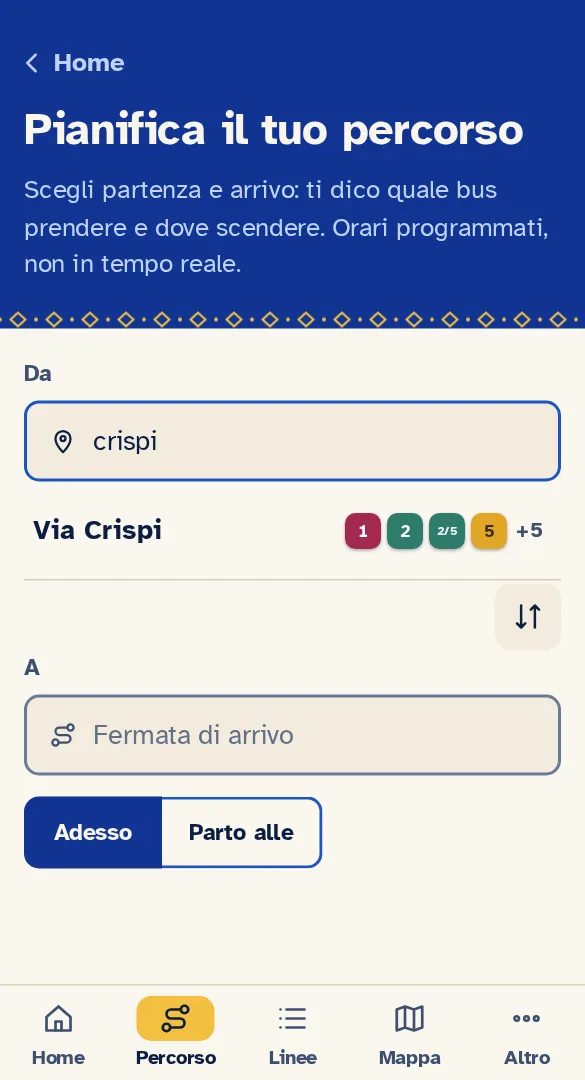
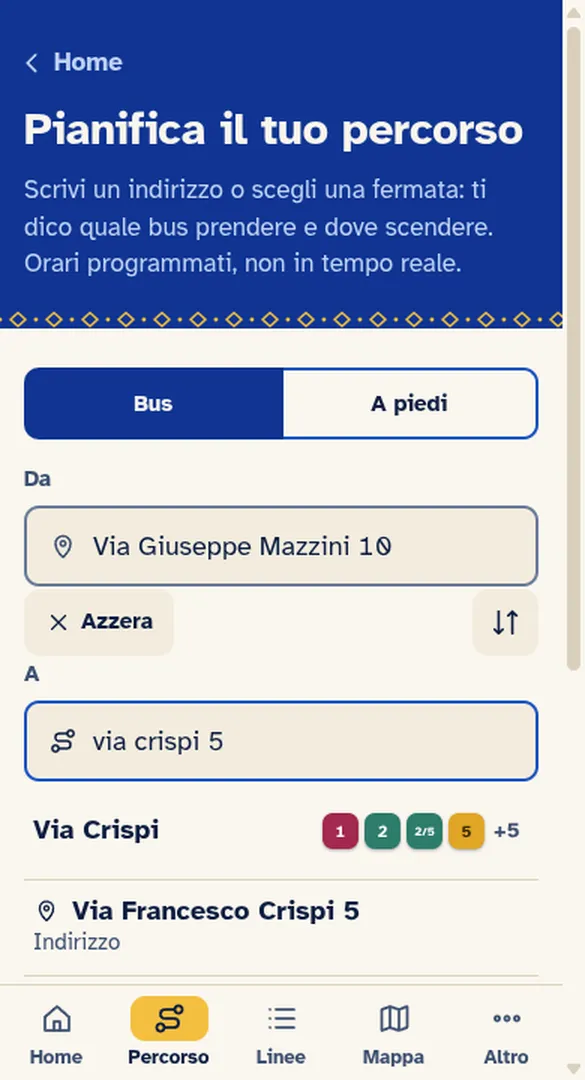
upgrade

diff --git a/js/i18n.js b/js/i18n.js
@@ -79,7 +79,7 @@ const IT = {
   howSpecial: 'DOM è la linea domenicale, N una navetta senza numero. Due numeri separati da barra (7/10) sono una sola linea che li porta entrambi.',
   legend: 'Legenda', legendLine: 'Percorso di una linea (numero = linea)', legendBusLine: 'Bus in servizio: colore = linea stimata, numero = mezzo',legendBusUnk: 'Bus in servizio, linea non determinabile', legendBusOff: 'Bus fermo, non in servizio',
   legendStop: 'Fermata (si vede ingrandendo)', legendMe: 'La tua posizione',
-  planTitle: 'Pianifica il tuo percorso', planFrom: 'Da', planTo: 'A', planFromPh: 'Indirizzo o fermata di partenza', planToPh: 'Indirizzo o fermata di arrivo', planStreet: 'Via: scrivi il numero civico', stepWalkM: (m, min) => `Cammina ${m} m · ${min} min`, stepUntil: 'fino a', planOnMap: 'Vedi sulla mappa', planWalkOnly: 'A piedi', planReset: 'Azzera', planModeLabel: 'Come ti muovi', planModeBus: 'Bus', planModeWalk: 'A piedi', planWalkNone: 'Percorso a piedi non disponibile: i due punti sono troppo lontani o fuori dalla rete pedonale.', planWalkMeta: (m) => `${m} m a piedi`, planCloseRoute: 'Chiudi il percorso sulla mappa', planAddress: 'Indirizzo', citeAddresses: 'Numeri civici: ANNCSU, Archivio Nazionale dei Numeri Civici delle Strade Urbane (Agenzia delle Entrate · ISTAT), elaborazione',
+  planTitle: 'Pianifica il tuo percorso', planFrom: 'Da', planTo: 'A', planFromPh: 'Indirizzo o fermata di partenza', planToPh: 'Indirizzo o fermata di arrivo', planStreet: 'Via: scrivi il numero civico', stepWalkM: (m, min) => `Cammina ${m} m · ${min} min`, stepUntil: 'fino a', planOnMap: 'Vedi sulla mappa', planWalkOnly: 'A piedi', planReset: 'Azzera', planModeLabel: 'Come ti muovi', planModeBus: 'Bus', planModeWalk: 'A piedi', planWalkNone: 'Percorso a piedi non disponibile: i due punti sono troppo lontani o fuori dalla rete pedonale.', planWalkMeta: (m) => `${m} m a piedi`, planCloseRoute: 'Chiudi il percorso sulla mappa', planAddress: 'Indirizzo', citeAddresses: 'Numeri civici: ANNCSU, Archivio Nazionale dei Numeri Civici delle Strade Urbane (Agenzia delle Entrate · ISTAT), dati aperti ai sensi del Regolamento (UE) 2023/138, elaborazione',
   planMyPos: 'La mia posizione', planSwap: 'Inverti partenza e arrivo', planNow: 'Adesso', planAt: 'Parto alle', planGo: 'Cerca percorso',
   planHint: 'Scrivi un indirizzo o scegli una fermata: ti dico quale bus prendere e dove scendere. Orari programmati, non in tempo reale.',
   planNone: 'Nessun collegamento trovato con al massimo un cambio.', planNoneNow: 'Nessun collegamento nel resto della giornata. Ecco quelli di domani.',
@@ -122,21 +122,35 @@ const IT = {
       'Tocca una linea per vedere tutte le sue fermate con gli orari. La pagina si apre già sulla tua fermata, così capisci subito quando passa.',
       'Per i bus che vanno nell’altra direzione, torna indietro e tocca «Altro senso di marcia».',
     ], 'Se devi solo arrivare in un posto, è più facile usare «Percorso»: l’app sceglie lei la linea giusta.', [['linee-fermata', 'L’elenco «Linee che passano di qui» nella pagina di una fermata']]],
-    ['plan', 'route', 'Come fare un percorso', 'Il pulsante «Percorso» ti dice quale bus prendere, dove salire, dove scendere e se devi cambiare.', [
+    ['plan', 'route', 'Come fare un percorso', 'Il pulsante «Percorso» ti dice come andare da un posto a un altro: con il bus (quale prendere, dove salire e scendere, se devi cambiare) oppure a piedi.', [
       'Tocca «Percorso» nella barra in basso.',
-      'Nella casella «Da» scrivi dove parti (nome della fermata o della strada) e tocca il risultato giusto. Se sei già sul posto, scegli «La mia posizione».',
-      'Nella casella «A» scrivi la fermata dove vuoi arrivare e tocca il risultato.',
-      'Appena hai scelto tutte e due, l’app mostra le soluzioni. Non c’è un pulsante da premere.',
+      'In alto scegli come ti muovi: «Bus» (bus più pezzi a piedi) oppure «A piedi» (solo a piedi, dal punto di partenza all’arrivo).',
+      'Nella casella «Da» scrivi dove parti: puoi usare il nome di una fermata, una via con il numero civico (per esempio «via Mazzini 10») oppure «La mia posizione» se sei già sul posto. Tocca il risultato giusto.',
+      'Se scrivi solo il nome di una via, toccala nell’elenco e aggiungi il numero civico: l’app trova l’indirizzo preciso.',
+      'Nella casella «A» fai lo stesso per la destinazione: fermata, indirizzo con civico o posizione.',
+      'Appena hai scelto tutte e due, l’app mostra le soluzioni. Non c’è un pulsante da premere. Cambiando «Bus» o «A piedi» il risultato si aggiorna subito.',
       'Per partire adesso lascia «Adesso». Per partire più tardi tocca «Parto alle» e scegli l’ora.',
       'Hai sbagliato l’ordine? Il pulsante con le due frecce, in mezzo alle caselle, inverte «Da» e «A» (comodo per il ritorno).',
-    ], '', [['percorso-da', 'Il pianificatore con «Via Crispi» scelta come partenza'], ['percorso-risultati', 'Le soluzioni trovate, con orari e linee']]],
+      'Vuoi ricominciare? Tocca «Azzera»: cancella partenza, arrivo, ora e il percorso aperto sulla mappa.',
+    ], 'Funziona anche tra due indirizzi qualsiasi, non solo tra fermate: l’app aggiunge da sola i tratti a piedi fino alla fermata e dalla fermata all’arrivo.', [['percorso-da', 'Il pianificatore con la partenza «Via Giuseppe Mazzini 10» e l’arrivo in corso di scrittura; in alto la scelta «Bus» / «A piedi»'], ['percorso-risultati', 'Soluzione con il bus: tratto a piedi, bus, tratto a piedi, con orari e minuti']]],
     ['read', 'info', 'Come leggere il risultato', 'Ogni riquadro è una possibile soluzione, la prima (con il bordo blu) è la più rapida.', [
       'In alto vedi l’orario di partenza e di arrivo e quanti minuti dura il viaggio.',
-      '«Diretto» vuol dire che non devi cambiare. «1 cambio» vuol dire che userai due bus.',
+      '«Diretto» vuol dire che non devi cambiare. «1 cambio» vuol dire che userai due bus. Con «A piedi» vedi invece i metri totali.',
       'Il primo riquadro è già aperto, gli altri si aprono toccandoli. «Sali a…» dice dove salire e a che ora, «Scendi a…» dove scendere.',
-      'Se c’è un pezzo a piedi, trovi scritto «Cammina» con i minuti.',
+      'Per i tratti a piedi trovi «Cammina» con metri e minuti, i nomi delle strade da percorrere e dove arrivare («fino a…»).',
       'Con un cambio, la scritta «Cambio» ti dice dove scendere dal primo bus e prendere il secondo.',
-    ], 'Sono orari programmati, non in tempo reale. Arriva alla fermata con qualche minuto di anticipo.', []],
+      ], 'Sono orari programmati, non in tempo reale. Arriva alla fermata con qualche minuto di anticipo. I metri a piedi seguono le strade ma sono una stima.', []],
+    ['times', 'clock', 'Quanto ci metto: bus o a piedi', 'L’app ti fa confrontare i due modi, basta cambiare la scelta in alto.', [
+      '<b>Con il bus</b>: in cima a ogni soluzione leggi partenza → arrivo e la durata totale. Dentro trovi i minuti di ogni pezzo a piedi (circa 70 m al minuto) e l’ora del bus.',
+      '<b>A piedi</b>: tocca «A piedi» in alto. Vedi un solo riquadro con la durata e i metri totali (per esempio «10 min · 700 m a piedi») e i nomi delle strade da fare.',
+      'Il tempo a piedi dipende dalla strada vera, non dalla linea retta. Se i due punti sono troppo lontani o fuori dalla rete pedonale, l’app lo scrive.',
+      'Confronta: se a piedi ci metti meno o quasi uguale, non serve aspettare il bus.',
+    ], 'Con «Parto alle» puoi vedere come cambia il tempo se parti più tardi: il bus dipende dall’orario, a piedi no.', [['percorso-piedi', 'Il risultato «A piedi»: 10 minuti, 700 metri, con le strade da percorrere']]],
+    ['planmap', 'map', 'Come vedere il percorso sulla mappa', 'Dopo aver trovato un percorso lo puoi vedere disegnato sulla mappa, sia con il bus sia a piedi.', [
+      'Apri la soluzione che ti interessa e tocca «Vedi sulla mappa».',
+      'Si apre la mappa. Il bus è la linea colorata con il suo colore, i tratti a piedi sono tratteggiati lungo le strade. I pallini segnano partenza, fermate e arrivo.',
+      'In alto, sopra la mappa, c’è la scritta con «Da → A»: tocca la «×» per chiudere il percorso e tornare alla mappa normale.',
+          ], 'Ingrandisci con due dita per vedere meglio le strade del tratto a piedi.', [['percorso-mappa-bus', 'Percorso con il bus sulla mappa: tratti a piedi tratteggiati e linea del bus colorata'], ['percorso-mappa-piedi', 'Percorso solo a piedi sulla mappa']]],
     ['share', 'share', 'Come condividere il percorso', 'Puoi mandare a un amico il percorso già pronto, con partenza, arrivo e ora.', [
       'Fai il percorso come spiegato sopra.',
       'In fondo ai risultati tocca «Condividi percorso».',
@@ -260,7 +274,7 @@ const EN = {
   howSpecial: 'DOM is the Sunday line, N a shuttle without a number. Two numbers with a slash (7/10) are one line carrying both.',
   legend: 'Legend', legendLine: 'A line’s route (number = line)', legendBusLine: 'Bus in service: color = estimated line, number = vehicle',legendBusUnk: 'Bus in service, line unknown', legendBusOff: 'Parked bus, not in service',
   legendStop: 'Stop (visible when zoomed in)', legendMe: 'Your location',
-  planTitle: 'Plan your journey', planFrom: 'From', planTo: 'To', planFromPh: 'Departure address or stop', planToPh: 'Arrival address or stop', planStreet: 'Street: type the house number', stepWalkM: (m, min) => `Walk ${m} m · ${min} min`, stepUntil: 'to', planOnMap: 'Show on map', planWalkOnly: 'On foot', planReset: 'Reset', planModeLabel: 'How you travel', planModeBus: 'Bus', planModeWalk: 'On foot', planWalkNone: 'No walking route: the two points are too far apart or outside the pedestrian network.', planWalkMeta: (m) => `${m} m on foot`, planCloseRoute: 'Close the route on the map', planAddress: 'Address', citeAddresses: 'House numbers: ANNCSU, the national register of street numbers (Agenzia delle Entrate · ISTAT), processed by',
+  planTitle: 'Plan your journey', planFrom: 'From', planTo: 'To', planFromPh: 'Departure address or stop', planToPh: 'Arrival address or stop', planStreet: 'Street: type the house number', stepWalkM: (m, min) => `Walk ${m} m · ${min} min`, stepUntil: 'to', planOnMap: 'Show on map', planWalkOnly: 'On foot', planReset: 'Reset', planModeLabel: 'How you travel', planModeBus: 'Bus', planModeWalk: 'On foot', planWalkNone: 'No walking route: the two points are too far apart or outside the pedestrian network.', planWalkMeta: (m) => `${m} m on foot`, planCloseRoute: 'Close the route on the map', planAddress: 'Address', citeAddresses: 'House numbers: ANNCSU, the national register of street numbers (Agenzia delle Entrate · ISTAT), open data under Regulation (EU) 2023/138, processed by',
   planMyPos: 'My location', planSwap: 'Swap start and destination', planNow: 'Now', planAt: 'Leaving at', planGo: 'Find route',
   planHint: 'Type an address or pick a stop: I’ll tell you which bus to take and where to get off. Scheduled times, not live.',
   planNone: 'No connection found with at most one change.', planNoneNow: 'No connection for the rest of today. Here is tomorrow.',

diff --git a/sw.js b/sw.js
@@ -2,14 +2,14 @@
 // - Codice (html/js/css): prima la rete (con timeout), poi la cache: online si ha sempre una versione coerente.
 // - Dati, font, icone: dalla cache, aggiornati in background.
 // - MapLibre dalla CDN: cache al primo uso. Feed RT e tile della mappa non vengono mai messi in cache da qui.
-const VERSION = 'v83';
+const VERSION = 'v85';
 const CACHE = `marsala-tpl-${VERSION}`;
 const PRECACHE = [
   './', 'index.html', 'manifest.webmanifest', 'css/app.css',
   'js/app.js', 'js/schedule.js', 'js/planner.js', 'js/tiles.js', 'js/i18n.js', 'js/store.js', 'js/rt.js', 'js/map.js', 'js/match.js', 'js/consent.js', 'js/walk.js', 'js/indirizzi.js', 'js/route.js',
   'dati/app.json', 'dati/shapes.json', 'dati/avvisi.json', 'dati/indirizzi.json',
   'fonts/atkinson-hyperlegible-400.woff2', 'fonts/atkinson-hyperlegible-700.woff2',
-  'img/opendatasicilia.png', ...['home', 'cerca', 'fermata', 'linee-fermata', 'percorso-da', 'percorso-risultati', 'percorso-condividi', 'linee', 'mappa', 'mappa-3d'].map((n) => `img/guida/${n}.webp`), 'img/icon-192.png', 'img/icon-512.png', 'img/favicon.png',
+  'img/opendatasicilia.png', ...['home', 'cerca', 'fermata', 'linee-fermata', 'percorso-da', 'percorso-risultati', 'percorso-condividi', 'percorso-piedi', 'percorso-mappa-bus', 'percorso-mappa-piedi', 'linee', 'mappa', 'mappa-3d'].map((n) => `img/guida/${n}.webp`), 'img/icon-192.png', 'img/icon-512.png', 'img/favicon.png',
 ];
 
 self.addEventListener('install', (e) => {

diff --git a/js/app.js b/js/app.js
@@ -932,7 +932,7 @@ function viewInfo() {
 <p>${esc(t('citeBuildings'))} <a href="https://doi.org/10.5194/essd-17-6647-2025" target="_blank" rel="noopener">doi:10.5194/essd-17-6647-2025</a> · <a href="https://github.com/zhu-xlab/GlobalBuildingAtlas" target="_blank" rel="noopener">GlobalBuildingAtlas</a></p>
 <p>${esc(t('citeOrtho'))} <a href="https://map.sitr.regione.sicilia.it/gis/rest/services/ortofoto/ortofoto_2022_20cm_sicilia/ImageServer" target="_blank" rel="noopener">SITR Regione Siciliana</a></p>
 <p>${esc(t('osmWalk'))} <a href="https://www.openstreetmap.org/copyright" target="_blank" rel="noopener">OpenStreetMap</a>, ODbL.</p>
-<p>${esc(t('citeAddresses'))} <a href="https://palermohub.opendatasicilia.it/anncus.html" target="_blank" rel="noopener">ANNCSU · PalermoHub</a></p>
+<p>${esc(t('citeAddresses'))} <a href="https://palermohub.opendatasicilia.it/anncus.html" target="_blank" rel="noopener">PalermoHub</a> · <a href="https://www.anncsu.gov.it/it/consultazione-dellarchivio/open-data/" target="_blank" rel="noopener">ANNCSU</a></p>
 <p>${esc(t('approxInfo'))}</p>
 <p>${esc(t('notOfficial'))}</p>
 <h2 class="h3">${esc(t('licenses'))}</h2>

diff --git a/README.md b/README.md
@@ -73,5 +73,5 @@ Le statistiche d'uso (Google Analytics 4, `js/consent.js`) si caricano **solo do
 
 ## Licenza e attribuzioni
 
-Dati: Comune di Marsala, licenza [CC BY 4.0](https://creativecommons.org/licenses/by/4.0/deed.it). Font: Atkinson Hyperlegible (Braille Institute, SIL OFL). Mappa: © OpenStreetMap contributors, tile OpenFreeMap, libreria MapLibre GL JS. Numeri civici: ANNCSU (Archivio Nazionale dei Numeri Civici delle Strade Urbane, Agenzia delle Entrate · ISTAT), elaborazione [PalermoHub](https://palermohub.opendatasicilia.it/anncus.html). Edifici 3D: [GlobalBuildingAtlas](https://github.com/zhu-xlab/GlobalBuildingAtlas) (TUM), CC BY-NC 4.0 / ODbL. Citazione: Zhu, X. X., Chen, S., Zhang, F., Shi, Y., Wang, Y. (2025), *GlobalBuildingAtlas: an open global and complete dataset of building polygons, heights and LoD1 3D models*, Earth System Science Data, 17(12), 6647–6668, [doi:10.5194/essd-17-6647-2025](https://doi.org/10.5194/essd-17-6647-2025).
+Dati: Comune di Marsala, licenza [CC BY 4.0](https://creativecommons.org/licenses/by/4.0/deed.it). Font: Atkinson Hyperlegible (Braille Institute, SIL OFL). Mappa: © OpenStreetMap contributors, tile OpenFreeMap, libreria MapLibre GL JS. Numeri civici: [ANNCSU](https://www.anncsu.gov.it/it/consultazione-dellarchivio/open-data/) (Archivio Nazionale dei Numeri Civici delle Strade Urbane, Agenzia delle Entrate · ISTAT), dati aperti ai sensi del Regolamento (UE) 2023/138, elaborazione [PalermoHub](https://palermohub.opendatasicilia.it/anncus.html). Edifici 3D: [GlobalBuildingAtlas](https://github.com/zhu-xlab/GlobalBuildingAtlas) (TUM), CC BY-NC 4.0 / ODbL. Citazione: Zhu, X. X., Chen, S., Zhang, F., Shi, Y., Wang, Y. (2025), *GlobalBuildingAtlas: an open global and complete dataset of building polygons, heights and LoD1 3D models*, Earth System Science Data, 17(12), 6647–6668, [doi:10.5194/essd-17-6647-2025](https://doi.org/10.5194/essd-17-6647-2025).
 Codice: [MIT](LICENSE), © 2026 Open Data Sicilia. I dati restano sotto la loro licenza CC BY 4.0.
